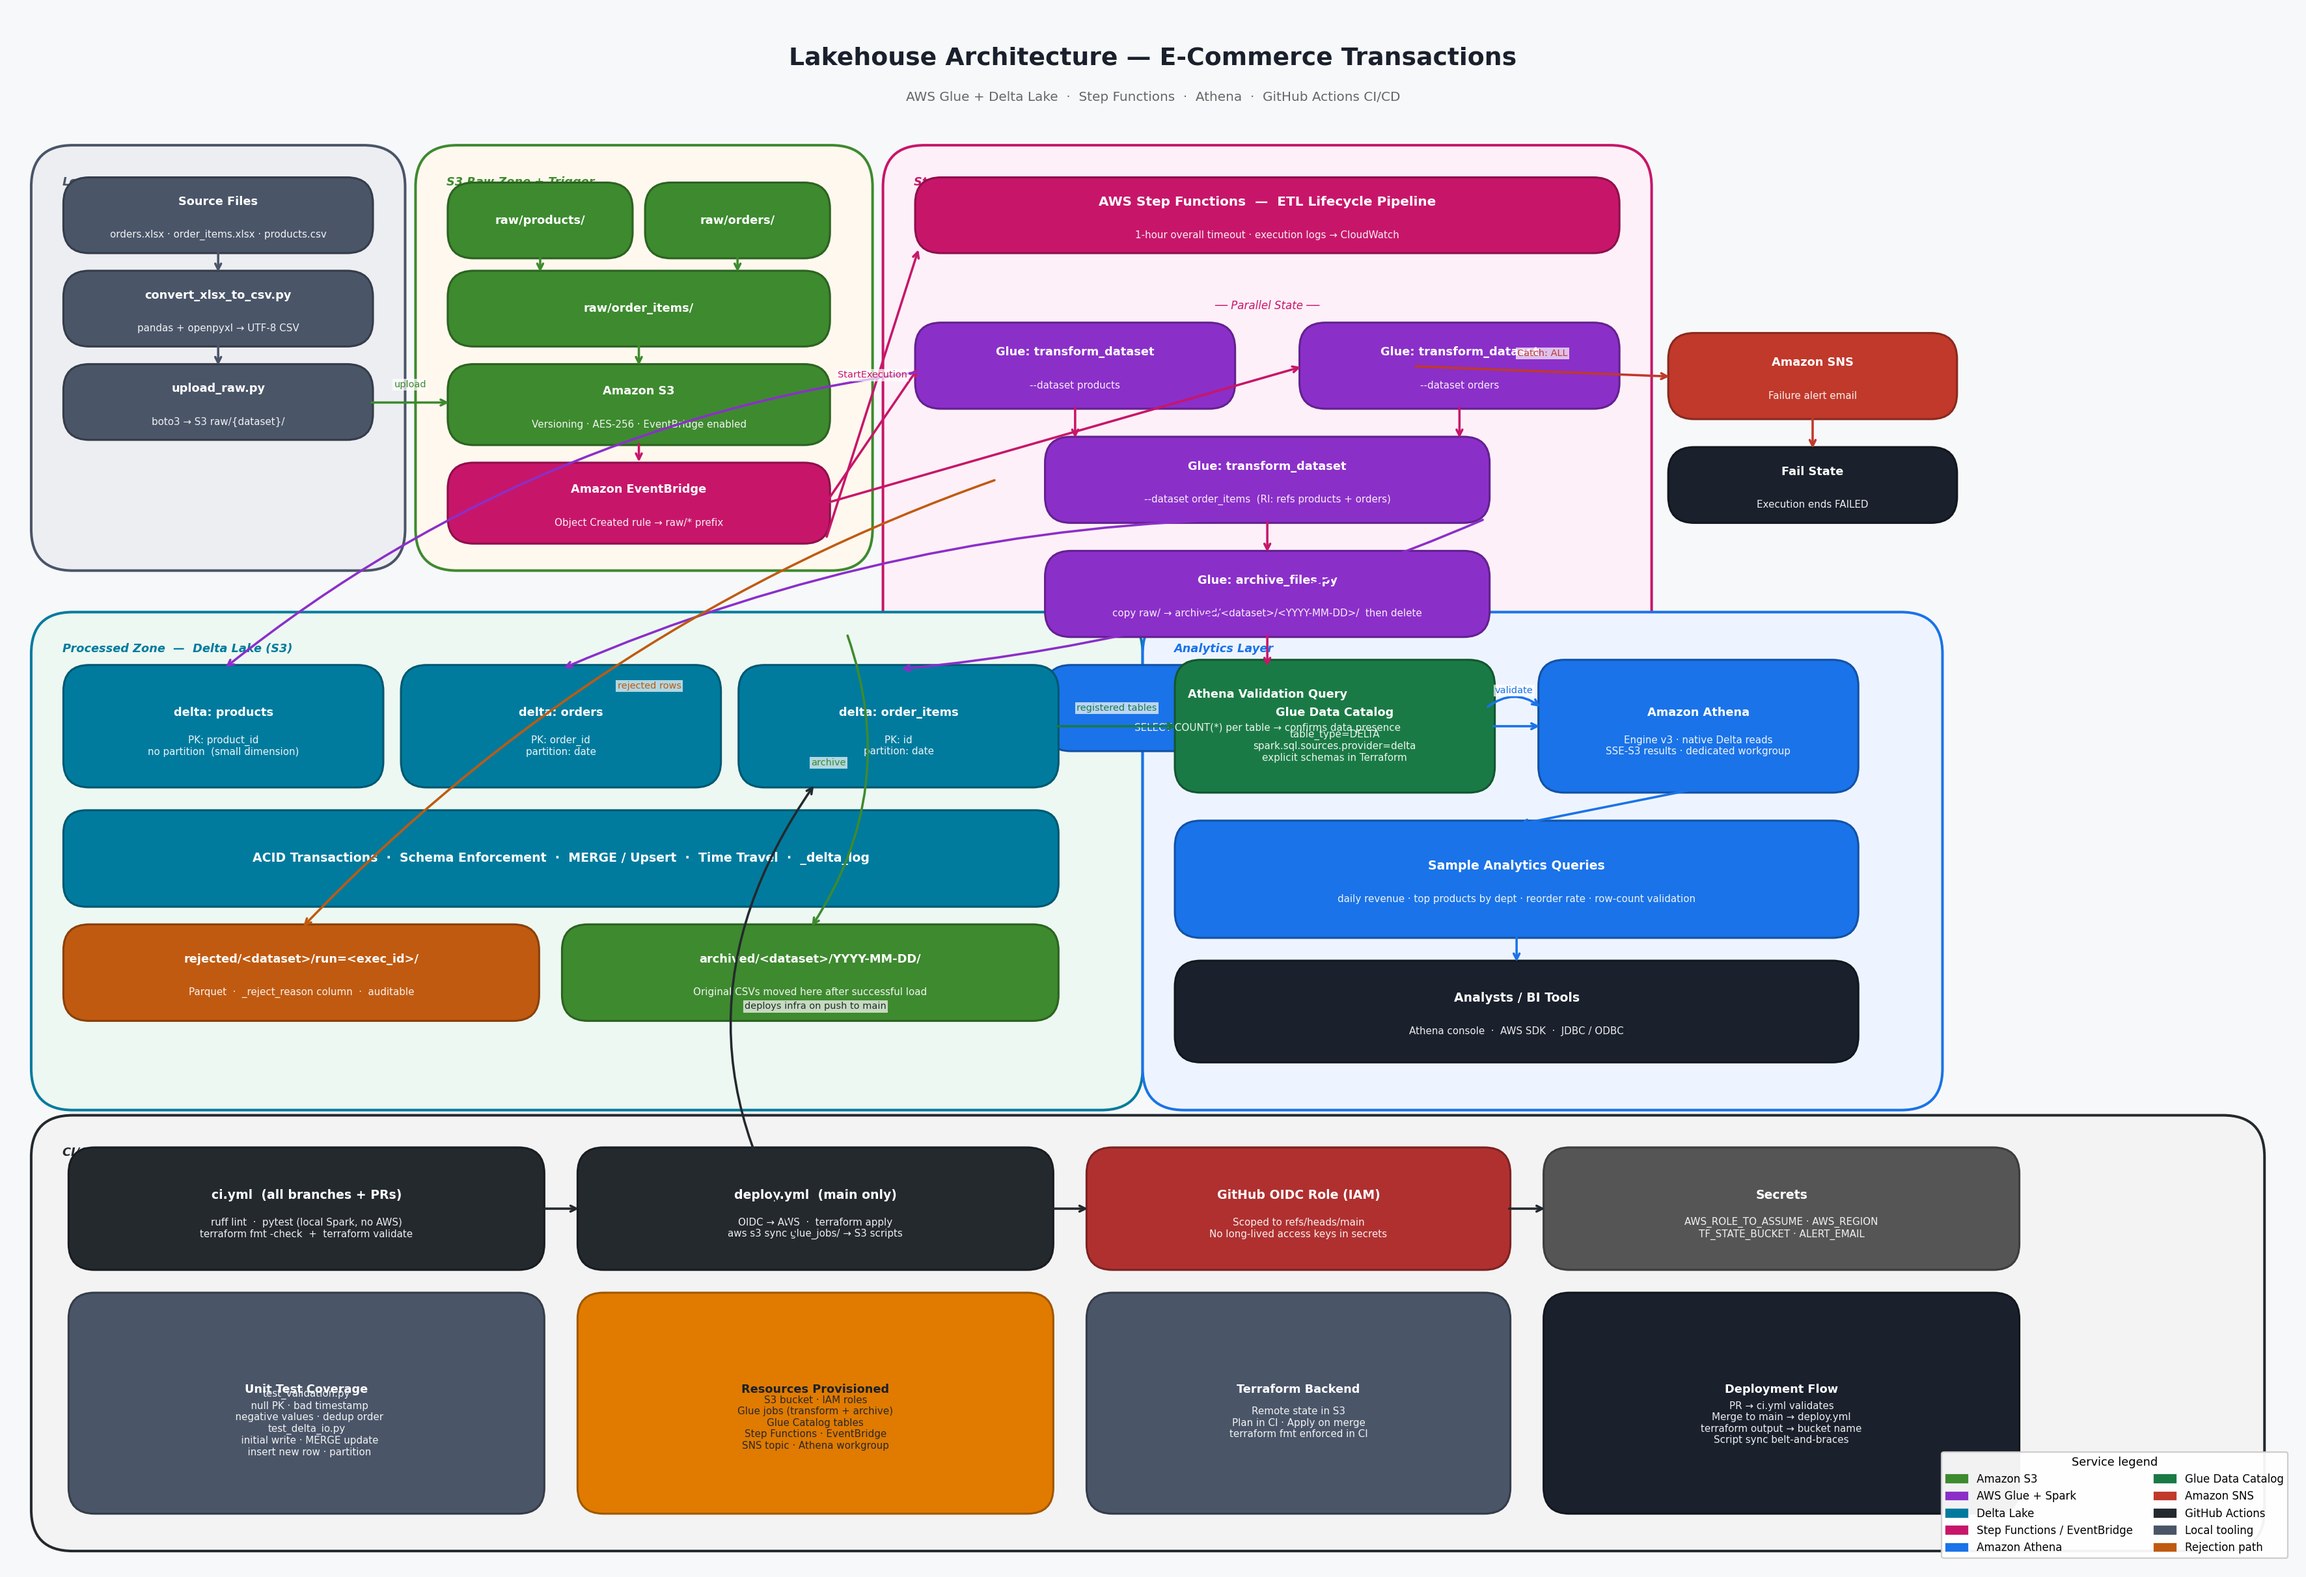
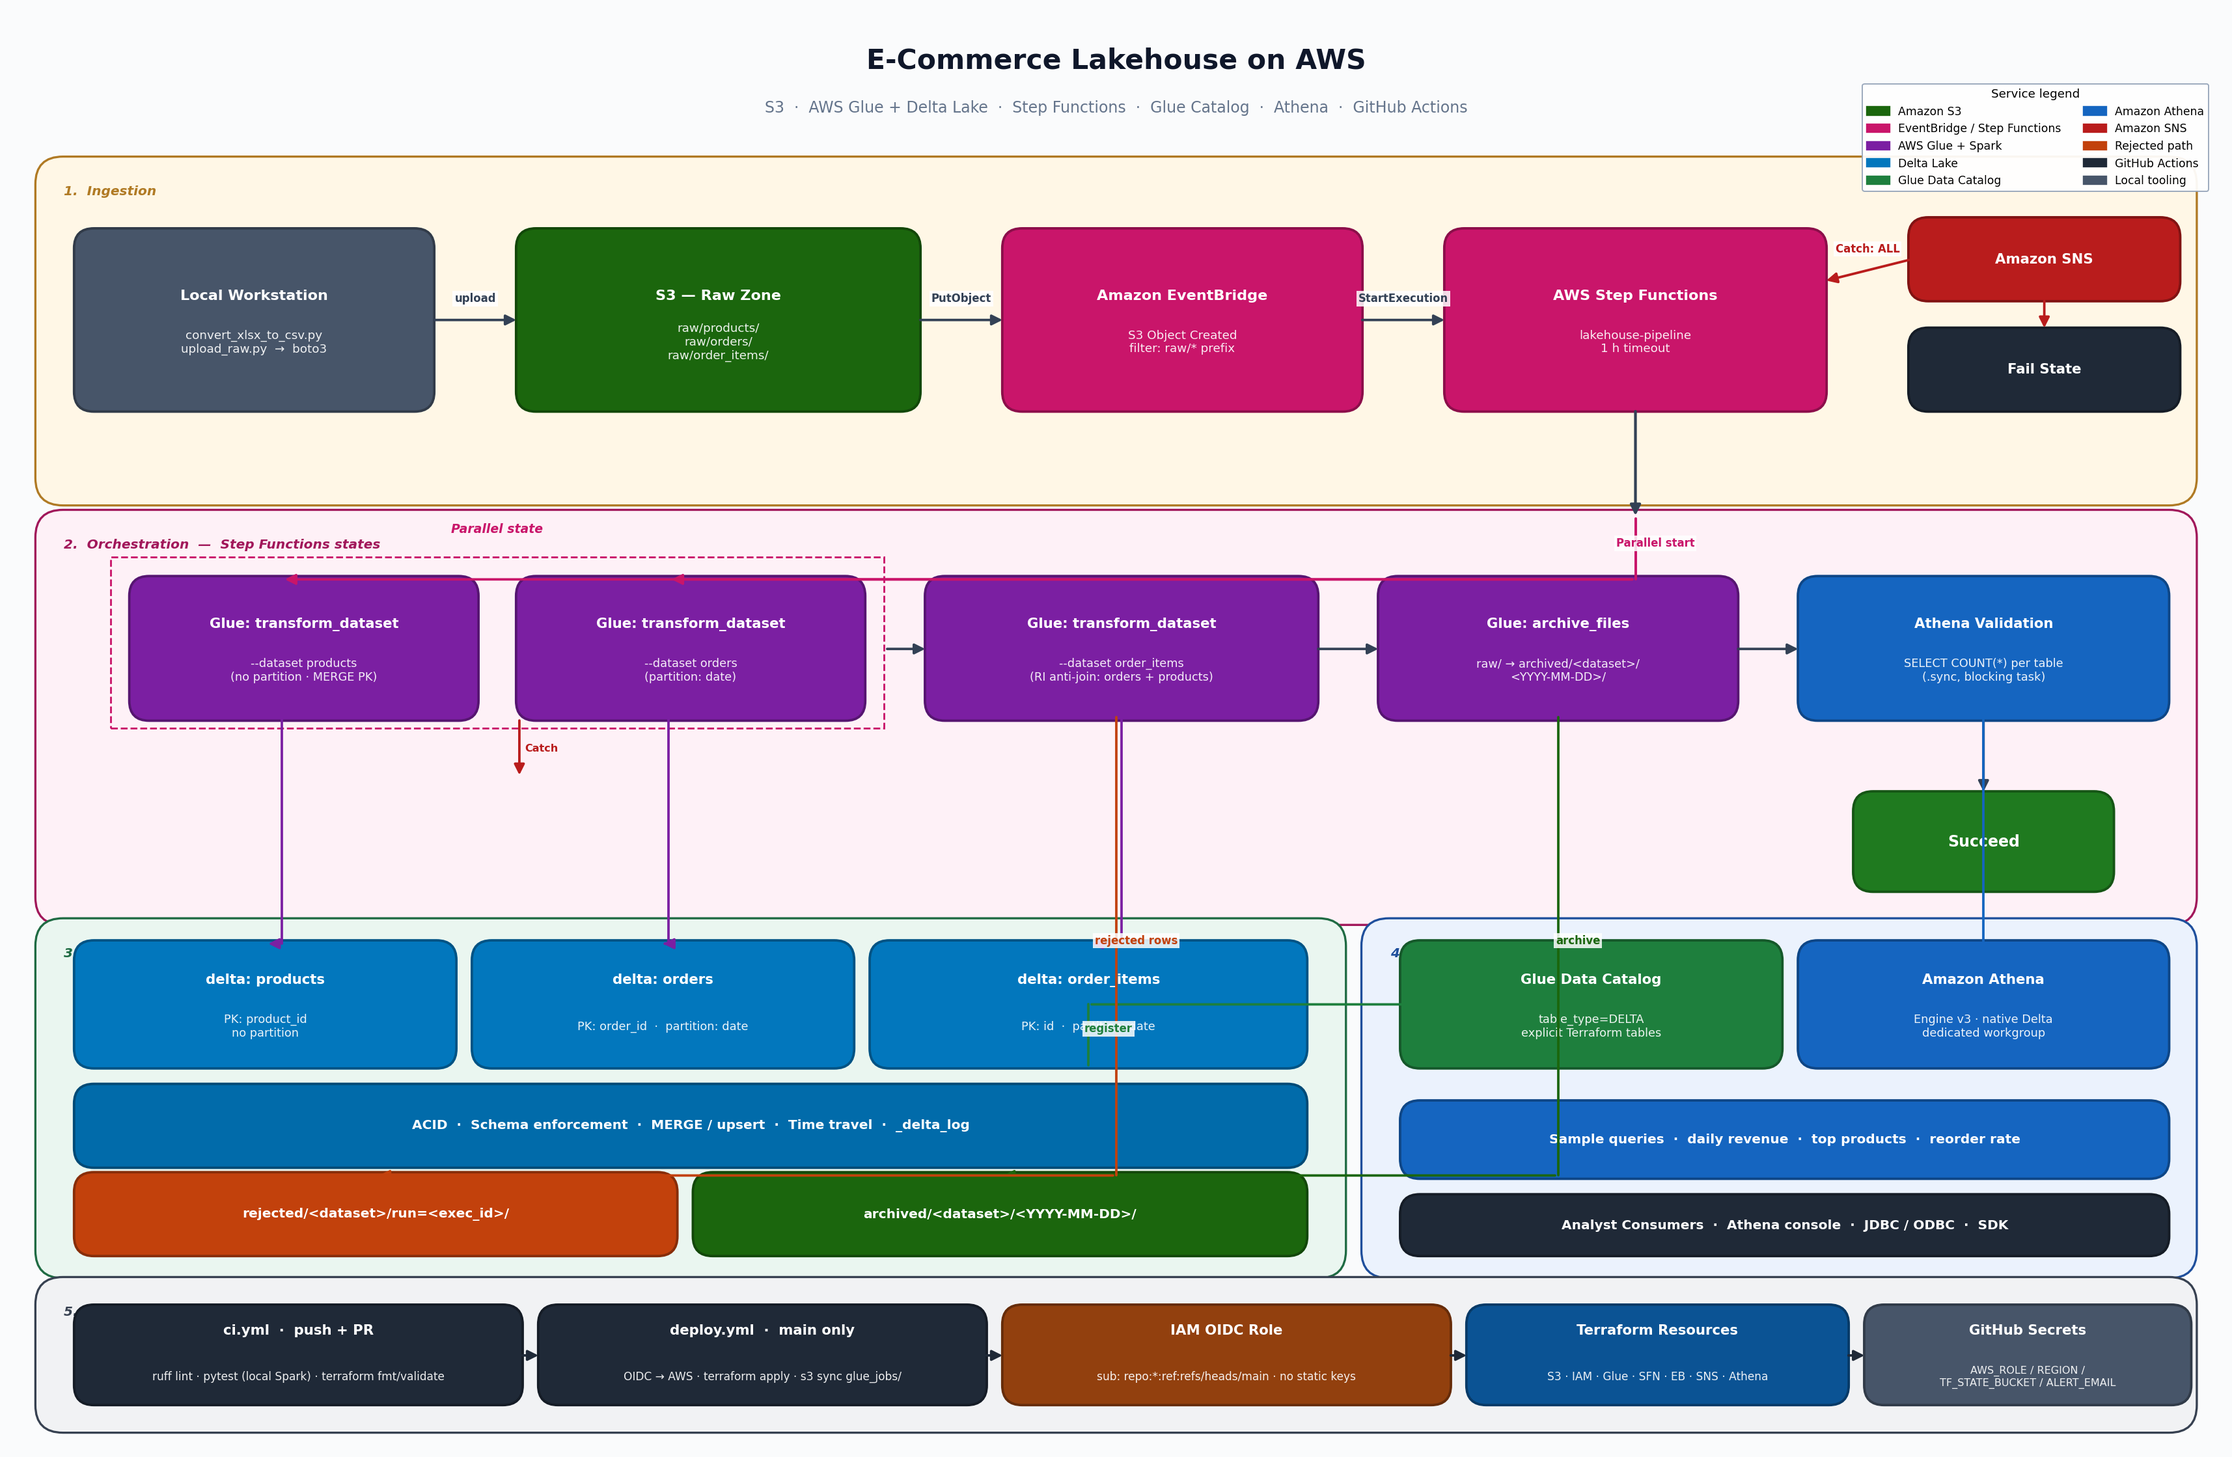
Replace architecture diagram with cleaner layout and drop generator
Regenerates docs/architecture.png with a clearer five-row swim-lane
layout: Ingestion (Local → S3 raw → EventBridge → SFN entry, with the
SNS + Fail terminal anchored to the same row), Orchestration (the
state-machine interior showing the Parallel branch, order_items, archive,
Athena validation, and Succeed terminal), Storage (the three Delta tables
plus rejected/ and archived/ prefixes), Analytics (Glue Catalog →
Athena → consumers), and CI/CD. Arrows are routed orthogonally so labels
no longer collide with diagonal lines, and each lane has an italic title
for easier scanning.

The generator script is removed from the repository — the PNG is now the
sole source of truth for the diagram. README.md drops the regenerate
hint accordingly.

diff --git a/README.md b/README.md
@@ -8,8 +8,6 @@ Production-grade AWS Lakehouse that ingests raw e-commerce transactional data fr
 
 ![Lakehouse Architecture](docs/architecture.png)
 
-> Regenerate with: `python scripts/generate_architecture_diagram.py`
-
 <details>
 <summary>ASCII fallback</summary>
 
